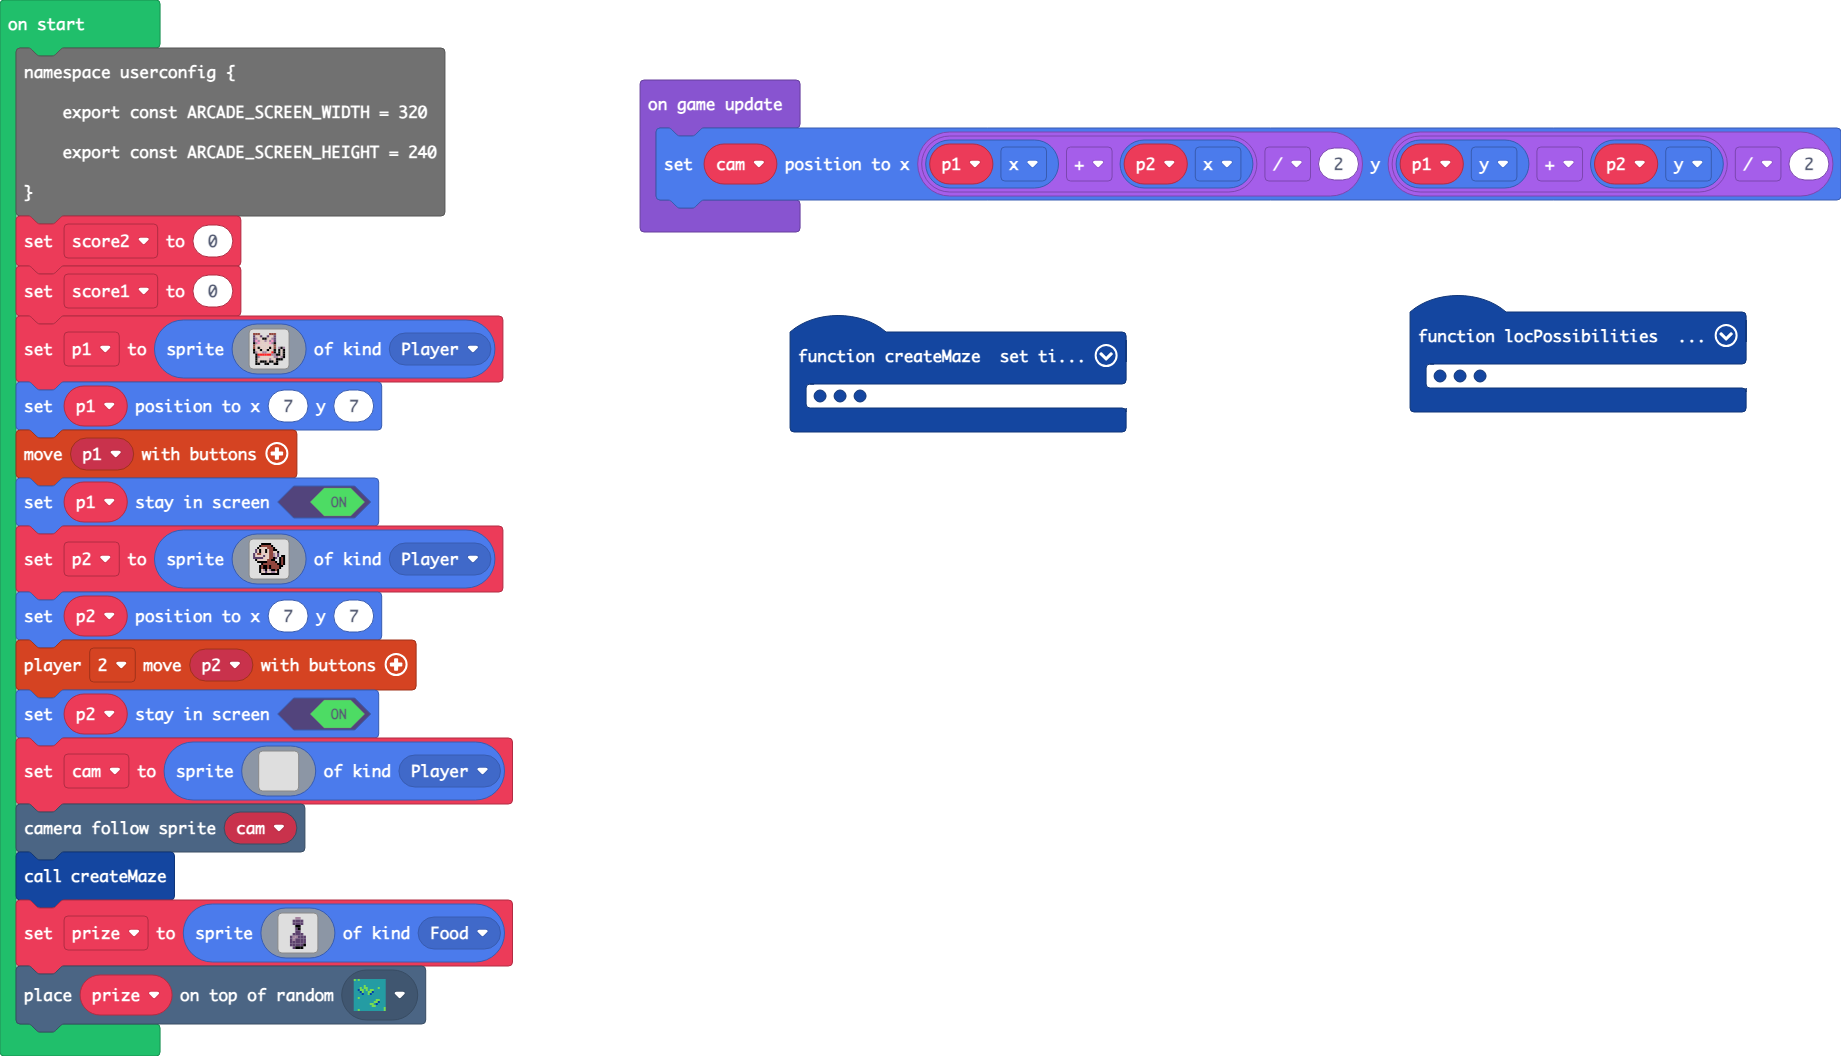
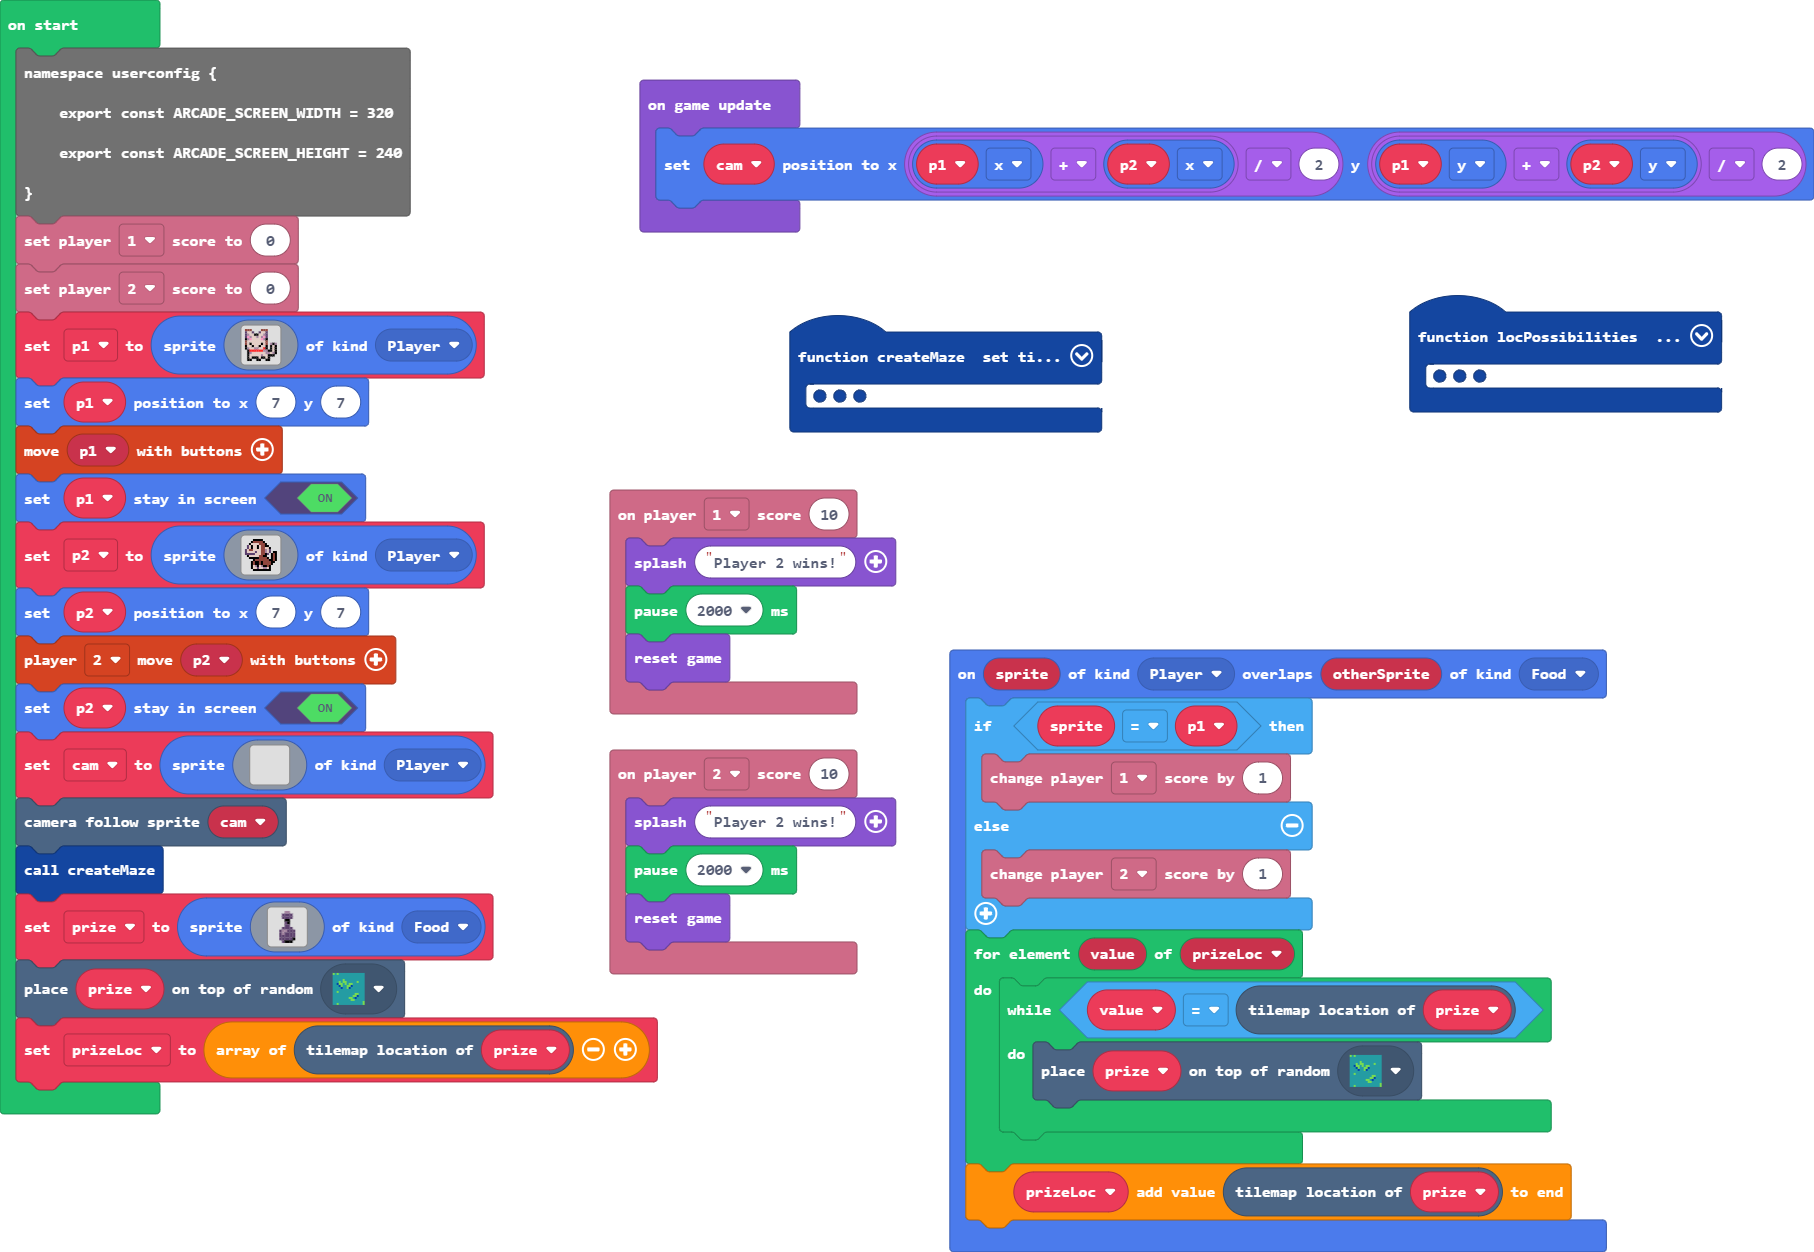
change score blocks; end game of score of ten for either player; player gets prize, +1 score & new prize loc not previous

diff --git a/tilemap.g.ts b/tilemap.g.ts
@@ -28,45 +28,6 @@ namespace myTiles {
 . . . . . . . . . . . . . . . . 
 . . . . . . . . . . . . . . . . 
 `, [myTiles.transparency16], TileScale.Sixteen);
-            case "level1":
-            case "level1":return tiles.createTilemap(hex`24002400000000000000000000000000000000000000000000000000000000000000000000000000000000000000000000000000000000000000000000000000000000000000000000000000000000000000000000000000000000000000000000000000000000000000000000000000000000000000000000000000000000000000000000000000000000000000000000000000000000000000000000000000000000000000000000000000000000000000000000000000000000000000000000000000000000000000000000000000000000000000000000000000000000000000000000000000000000000000000000000000000000000000000000000000000000000000000000000000000000000000000000000000000000000000000000000000000000000000000000000000000000000000000000000000000000000000000000000000000000000000000000000000000000000000000000000000000000000000000000000000000000000000000000000000000000000000000000000000000000000000000000000000000000000000000000000000000000000000000000000000000000000000000000000000000000000000000000000000000000000000000000000000000000000000000000000000000000000000000000000000000000000000000000000000000000000000000000000000000000000000000000000000000000000000000000000000000000000000000000000000000000000000000000000000000000000000000000000000000000000000000000000000000000000000000000000000000000000000000000000000000000000000000000000000000000000000000000000000000000000000000000000000000000000000000000000000000000000000000000000000000000000000000000000000000000000000000000000000000000000000000000000000000000000000000000000000000000000000000000000000000000000000000000000000000000000000000000000000000000000000000000000000000000000000000000000000000000000000000000000000000000000000000000000000000000000000000000000000000000000000000000000000000000000000000000000000000000000000000000000000000000000000000000000000000000000000000000000000000000000000000000000000000000000000000000000000000000000000000000000000000000000000000000000000000000000000000000000000000000000000000000000000000000000000000000000000000000000000000000000000000000000000000000000000000000000000000000000000000000000000000000000000000000000000000000000000000000000000000000000000000000000000000000000000000000000000000000000000000000000000000000000000000000000000000000000000000000000000000000000000000000000000000000000000000000000000000000000000000000000000000000000000000000000000000000000000000000000000000000000000000000000000000000000000000000000000000000000000000000000000000000000000000000000000000000000000000000000000000000000000000000000000000000000000000000000000000000000000000000000000000000000000000000000000000000000000000000000000000000000000000000000000000000000000000000000000000000000000000000000000000000000000`, img`
-....................................
-....................................
-....................................
-....................................
-....................................
-....................................
-....................................
-....................................
-....................................
-....................................
-....................................
-....................................
-....................................
-....................................
-....................................
-....................................
-....................................
-....................................
-....................................
-....................................
-....................................
-....................................
-....................................
-....................................
-....................................
-....................................
-....................................
-....................................
-....................................
-....................................
-....................................
-....................................
-....................................
-....................................
-....................................
-....................................
-`, [myTiles.transparency16], TileScale.Sixteen);
             case "level3":
             case "level3":return tiles.createTilemap(hex`1000100000000000000000000000000000000000000000000000000000000000000000000000000000000000000000000000000000000000000000000000000000000000000000000000000000000000000000000000000000000000000000000000000000000000000000000000000000000000000000000000000000000000000000000000000000000000000000000000000000000000000000000000000000000000000000000000000000000000000000000000000000000000000000000000000000000000000000000000000000000000000000000000000000000000000000000000000000000000000000000000000000000000000000000000000000000000`, img`
 . . . . . . . . . . . . . . . . 
@@ -85,6 +46,39 @@ namespace myTiles {
 . . . . . . . . . . . . . . . . 
 . . . . . . . . . . . . . . . . 
 . . . . . . . . . . . . . . . . 
+`, [myTiles.transparency16], TileScale.Sixteen);
+            case "level1":
[1 lines of base64/hex data omitted]
+..............................
+..............................
+..............................
+..............................
+..............................
+..............................
+..............................
+..............................
+..............................
+..............................
+..............................
+..............................
+..............................
+..............................
+..............................
+..............................
+..............................
+..............................
+..............................
+..............................
+..............................
+..............................
+..............................
+..............................
+..............................
+..............................
+..............................
+..............................
+..............................
+..............................
 `, [myTiles.transparency16], TileScale.Sixteen);
         }
         return null;

diff --git a/main.ts b/main.ts
@@ -1,16 +1,21 @@
+info.player2.onScore(10, function () {
+    game.splash("Player 2 wins!")
+    pause(2000)
+    game.reset()
+})
 function locPossibilities () {
     adjLoc = []
     currentLoc = cursor.tilemapLocation()
     if (currentLoc.row > 0 && cursor.tileKindAt(TileDirection.Top, assets.tile`transparency16`)) {
         adjLoc.push(tiles.getTileLocation(currentLoc.column, currentLoc.row - 1))
     }
-    if (currentLoc.row < 35 && cursor.tileKindAt(TileDirection.Bottom, assets.tile`transparency16`)) {
+    if (currentLoc.row < 29 && cursor.tileKindAt(TileDirection.Bottom, assets.tile`transparency16`)) {
         adjLoc.push(tiles.getTileLocation(currentLoc.column, currentLoc.row + 1))
     }
     if (currentLoc.column > 0 && cursor.tileKindAt(TileDirection.Left, assets.tile`transparency16`)) {
         adjLoc.push(tiles.getTileLocation(currentLoc.column - 1, currentLoc.row))
     }
-    if (currentLoc.column < 35 && cursor.tileKindAt(TileDirection.Right, assets.tile`transparency16`)) {
+    if (currentLoc.column < 29 && cursor.tileKindAt(TileDirection.Right, assets.tile`transparency16`)) {
         adjLoc.push(tiles.getTileLocation(currentLoc.column + 1, currentLoc.row))
     }
     return adjLoc
@@ -71,6 +76,24 @@ function createMaze () {
         tiles.setWallAt(wallTile, true)
     }
 }
+info.player1.onScore(10, function () {
+    game.splash("Player 2 wins!")
+    pause(2000)
+    game.reset()
+})
+sprites.onOverlap(SpriteKind.Player, SpriteKind.Food, function (sprite, otherSprite) {
+    if (sprite == p1) {
+        info.player1.changeScoreBy(1)
+    } else {
+        info.player2.changeScoreBy(1)
+    }
+    for (let value of prizeLoc) {
+        while (value == prize.tilemapLocation()) {
+            tiles.placeOnRandomTile(prize, assets.tile`myTile`)
+        }
+    }
+    prizeLoc.push(prize.tilemapLocation())
+})
 let wallTiles: tiles.Location[] = []
 let count = 0
 let temp: tiles.Location = null
@@ -80,13 +103,16 @@ let visitLoc: tiles.Location[] = []
 let cursor: Sprite = null
 let currentLoc: tiles.Location = null
 let adjLoc: tiles.Location[] = []
+let prizeLoc: tiles.Location[] = []
+let prize: Sprite = null
+let p1: Sprite = null
 namespace userconfig {
     export const ARCADE_SCREEN_WIDTH = 320
     export const ARCADE_SCREEN_HEIGHT = 240
 }
-let score2 = 0
-let score1 = 0
-let p1 = sprites.create(img`
+info.player1.setScore(0)
+info.player2.setScore(0)
+p1 = sprites.create(img`
     e e e . . . . e e e . . . . 
     c d d c . . c d d c . . . . 
     c b d d f f d d b c . . . . 
@@ -146,8 +172,9 @@ let cam = sprites.create(img`
     `, SpriteKind.Player)
 scene.cameraFollowSprite(cam)
 createMaze()
-let prize = sprites.create(assets.image`myImage0`, SpriteKind.Food)
+prize = sprites.create(assets.image`myImage0`, SpriteKind.Food)
 tiles.placeOnRandomTile(prize, assets.tile`myTile`)
+prizeLoc = [prize.tilemapLocation()]
 game.onUpdate(function () {
     cam.setPosition((p1.x + p2.x) / 2, (p1.y + p2.y) / 2)
 })
